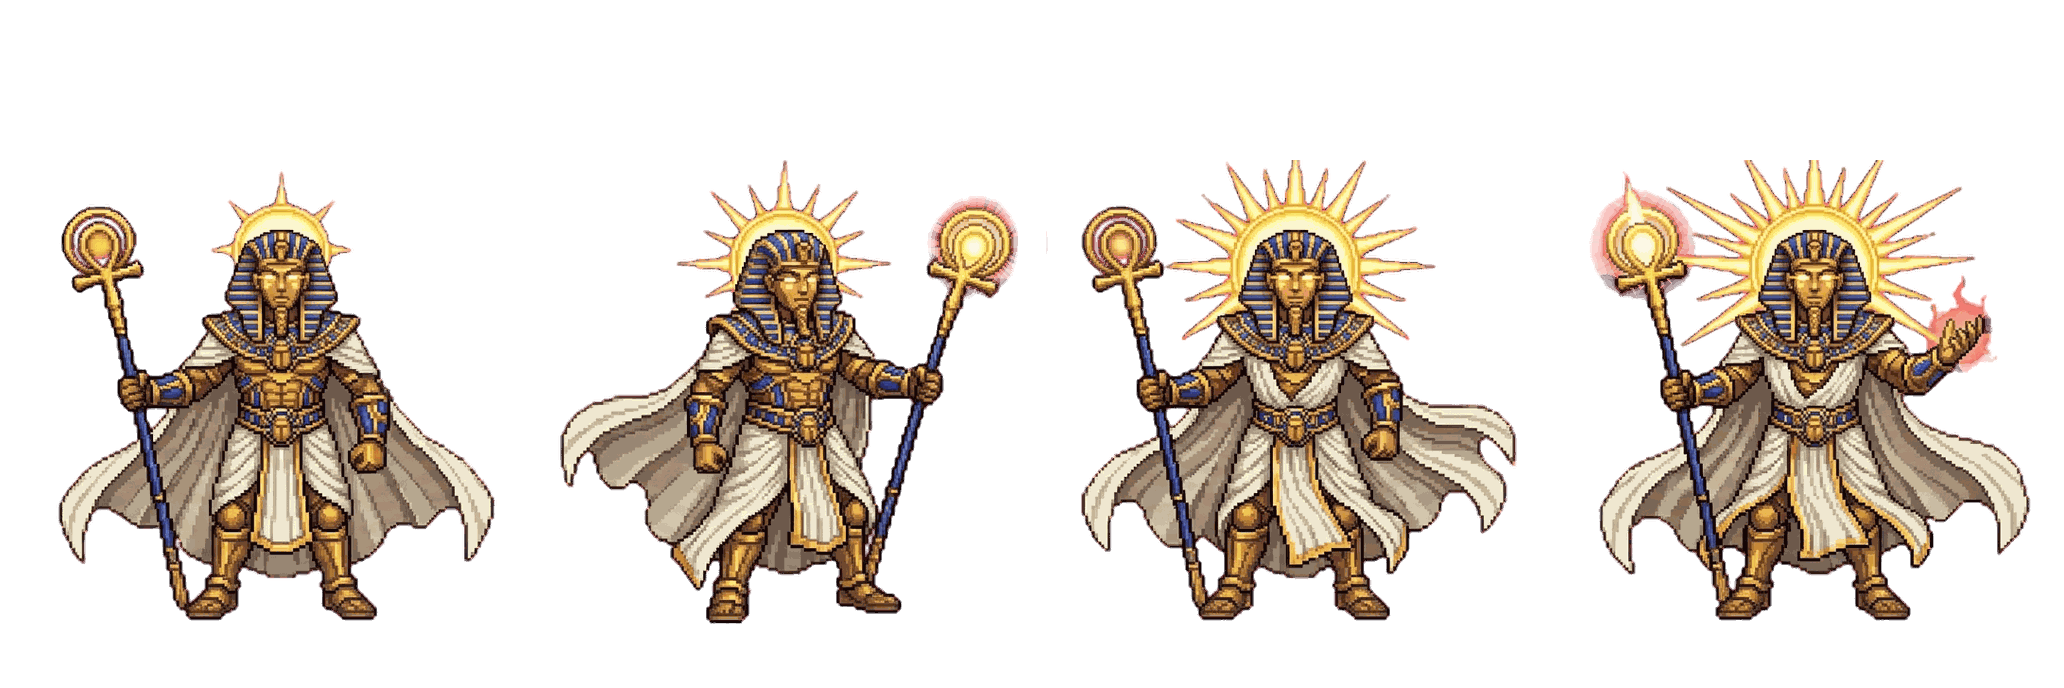
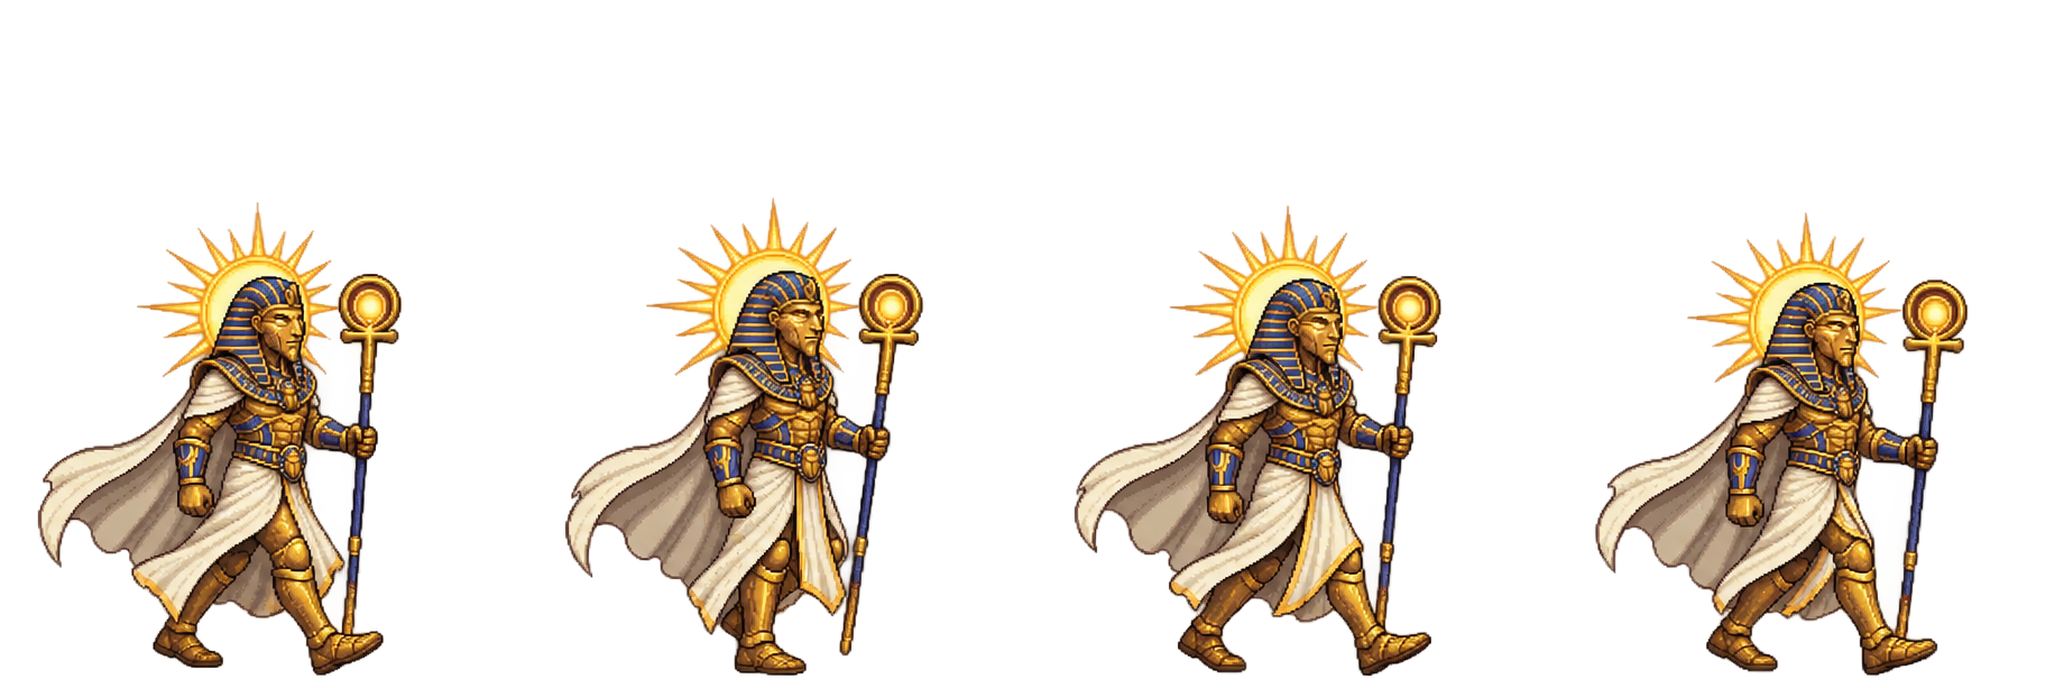
Round 280: Pressure 10% weaker; tougher Lunar Enforcer; the Sun Pharaoh walks (#60)
* Round 280 (in progress): Pressure 10% weaker

Claude-Session: https://claude.ai/code/session_01XB2RMCaJ1aVVtBjSNk3FhS

* Round 280: the Sun Pharaoh walks

Claude-Session: https://claude.ai/code/session_01XB2RMCaJ1aVVtBjSNk3FhS

* Round 280: tougher Lunar Enforcer; lab table

Claude-Session: https://claude.ai/code/session_01XB2RMCaJ1aVVtBjSNk3FhS

* Round 280: comment

Claude-Session: https://claude.ai/code/session_01XB2RMCaJ1aVVtBjSNk3FhS

---------

diff --git a/assets/pressure.js b/assets/pressure.js
@@ -9,8 +9,10 @@
 // defend or press. Tuned with the Difficulty lab (assets/sim/lab.js).
 // =====================================================================
 // Damage per point taken off, by world: late decks deal far more per energy, so pressing costs more there.
-const PRESSURE_PER_BY_WORLD = { city: 2, elaris: 2, sky: 3, wilds: 4, vespera: 6, chronospire: 6 }, PRESSURE_CAP = 0.5;
-function pressurePer() { return PRESSURE_PER_BY_WORLD[typeof activeRegion === 'string' ? activeRegion : 'city'] || 3; }
+// Round 280 (owner: "reduce pressure by 10%"): PRESSURE_STRENGTH scales both the rate (2 damage per point becomes 2.2)
+// and the cap (half becomes 45%).
+const PRESSURE_PER_BY_WORLD = { city: 2, elaris: 2, sky: 3, wilds: 4, vespera: 6, chronospire: 6 }, PRESSURE_STRENGTH = 0.9, PRESSURE_CAP = 0.5 * PRESSURE_STRENGTH;
+function pressurePer() { return Math.round((PRESSURE_PER_BY_WORLD[typeof activeRegion === 'string' ? activeRegion : 'city'] || 3) / PRESSURE_STRENGTH * 10) / 10; }
 
 function pressureDealt(b) { return b && b.pressureTurn === b.turn ? b.pressureDmg || 0 : 0; }
 function pressureGuarded(b) { return !!b && b.guardTurn === b.turn; }
@@ -55,7 +57,7 @@ intentBubble = function (plan, cls, label, frozen) {
   if (cls !== 'now' || frozen || !b || !(plan.damage > 0)) return html;
   const line = plan.pressure ? '⚔ Pressure: −' + plan.pressure + (plan.hits > 1 ? ' per hit' : '') + ' (you dealt ' + pressureDealt(b) + ' this turn)'
     : pressureGuarded(b) ? '⚔ No Pressure: you gained Block this turn'
-    : '⚔ Pressure: every ' + pressurePer() + ' damage you deal this turn takes 1 off, up to half (not if you gain Block)';
+    : '⚔ Pressure: every ' + pressurePer() + ' damage you deal this turn takes 1 off, up to ' + Math.round(PRESSURE_CAP * 100) + '% (not if you gain Block)';
   return html.replace(/<\/div>$/, '<p class="affliction pressure-line' + (plan.pressure ? ' on' : '') + '">' + line + '</p></div>');
 };
 if (typeof document !== 'undefined' && document.createElement && document.head) {

diff --git a/index.html b/index.html
@@ -552,10 +552,10 @@ if(localStorage.getItem(SAVE_KEY))$('resumeBtn').classList.remove('hidden');
 addEventListener('resize',()=>{fitWorld();fitMap();renderTalentConnectors()});fitWorld();
 requestAnimationFrame(loop);
 </script>
-<script src="assets/elaris-wildlife.js?v=round274"></script>
+<script src="assets/elaris-wildlife.js?v=round280"></script>
 <script src="assets/solaris-data.js?v=round232"></script>
-<script src="assets/expansion.js?v=round278"></script>
-<script src="assets/encounter-depth.js?v=round246"></script>
+<script src="assets/expansion.js?v=round280"></script>
+<script src="assets/encounter-depth.js?v=round280"></script>
 <script src="assets/talent-matrix.js?v=round260"></script>
 <script src="assets/aether-deck.js?v=round233"></script>
 <script src="assets/card-variety.js?v=round233"></script>
@@ -581,7 +581,7 @@ requestAnimationFrame(loop);
 <script src="assets/stagger.js?v=round189"></script>
 <script src="assets/card-mechanics.js?v=round207"></script>
 <script src="assets/chain.js?v=round261"></script>
-<script src="assets/pressure.js?v=round226"></script>
+<script src="assets/pressure.js?v=round280"></script>
 <script src="assets/pickups.js?v=round185"></script>
 <script src="assets/cardsmith.js?v=round213"></script>
 <script src="assets/gear.js?v=round199"></script>
@@ -606,7 +606,7 @@ requestAnimationFrame(loop);
 <script src="assets/enemy-traits.js?v=round265"></script>
 <script src="assets/enemy-temper.js?v=round253b"></script>
 <script src="assets/battle-recap.js?v=round228"></script>
-<script src="assets/tutorial.js?v=round279"></script>
+<script src="assets/tutorial.js?v=round280"></script>
 <script src="assets/battle-chips.js?v=round254"></script>
 <script src="assets/god-mode.js?v=round198"></script>
 </body></html>

diff --git a/assets/tutorial.js b/assets/tutorial.js
@@ -24,7 +24,7 @@ function tutorialPages() {
       + '<li>Some moves carry an <b>affliction</b> (a debuff on you or a buff on the enemy), shown a turn ahead so you can prepare.</li></ul>' },
     { title: 'Defend or press', body: '<p>Enemy hits are big, so every turn ask: defend, or press?</p>'
       + '<ul><li><b>◈ Block</b> soaks up the enemy\'s attack this turn, then it is gone.</li>'
-      + '<li><b>⚔ Pressure</b>: on a turn where you gain <b>no</b> Block, every ' + per + ' damage you deal takes 1 off the enemy\'s attack that turn, up to half. The enemy\'s move shows the lower number as you play.</li>'
+      + '<li><b>⚔ Pressure</b>: on a turn where you gain <b>no</b> Block, every ' + per + ' damage you deal takes 1 off the enemy\'s attack that turn, up to ' + Math.round(PRESSURE_CAP * 100) + '%. The enemy\'s move shows the lower number as you play.</li>'
       + '<li><b>Healing</b> cards (Bloom of Life, Nano Mend) restore HP, and HP carries over between fights.</li></ul>' },
     { title: 'Aether and the side deck', body: '<ul><li>Energy you don\'t spend becomes <b>✦ Aether</b> at the end of your turn. You can also <b>pitch</b> a card from your hand: it burns away for the rest of the fight and gives its cost + 1 Aether.</li>'
       + '<li>Aether pays for your <b>side deck</b>: answers to afflictions such as Purifying Light (cleanses debuffs), Aegis Ward (shields a big hit) and Dispel Lance (breaks enemy buffs).</li></ul>' },

diff --git a/assets/encounter-depth.js b/assets/encounter-depth.js
@@ -8,7 +8,7 @@ rules=function(c){return depthRules(c)+(stat(c).shock?' Disrupt: halve the next 
 const depthMonsterArt=monsterArt;
 // forestTyrant is the old Bloom Tyrant sheet as an art-only key (Vespera and Chronospire bosses
 // borrow it); the Sun Pharaoh has its own sheet since Round 195.
-monsterArt=function(id){return id==='bloomTyrant'||id==='forestTyrant'?'<span class="monster-sprite wildlife-sprite bloom-tyrant" role="img" aria-label="'+(id==='bloomTyrant'?enemies.bloomTyrant.name:'The Bloom Tyrant')+'" style="background-image:url(assets/monsters/elaris/'+(id==='bloomTyrant'?'sun-pharaoh':'bloom-tyrant')+'.png?v='+SPRITE_VERSION+');--wildlife-cycle:1.8s"></span>':depthMonsterArt(id)};
+monsterArt=function(id){return id==='bloomTyrant'||id==='forestTyrant'?'<span class="monster-sprite wildlife-sprite bloom-tyrant" role="img" aria-label="'+(id==='bloomTyrant'?enemies.bloomTyrant.name:'The Bloom Tyrant')+'" style="background-image:url(assets/monsters/elaris/'+(id==='bloomTyrant'?'sun-pharaoh':'bloom-tyrant')+'.png?v='+SPRITE_VERSION+');--wildlife-cycle:'+(id==='bloomTyrant'?'.8s':'1.8s')+'"></span>'/* Round 280: the Sun Pharaoh walks at the owner's 0.8s */:depthMonsterArt(id)};
 // Round 22 gave every boss an element (for the telegraphed elemental
 // strike + status effect), but all 4 mini-bosses still shared the exact
 // same 4-turn attack/charge/elemental/guard template, differing only in

diff --git a/assets/elaris-wildlife.js b/assets/elaris-wildlife.js
@@ -45,7 +45,7 @@ const cityMonsterArt=monsterArt;
 // Round 196: a sheet name with a folder ('sky/zenith-roc') is read from assets/monsters/<folder>/;
 // big:true draws it in the larger boss box.
 // Round 200: bump SPRITE_VERSION when sheets are re-cut, so browsers fetch the new images.
-const SPRITE_VERSION='274';
+const SPRITE_VERSION='280';
 function wildlifeSheetUrl(sheet){return 'assets/monsters/'+(sheet.includes('/')?sheet:'elaris/'+sheet)+'.png?v='+SPRITE_VERSION}
 monsterArt=function(id){const animal=ELARIS_WILDLIFE[id]||WILDLIFE_ART[id];if(!animal)return cityMonsterArt(id);return '<span class="monster-sprite wildlife-sprite'+(animal.big?' bloom-tyrant':'')+'" role="img" aria-label="'+animal.name+'" style="background-image:url('+wildlifeSheetUrl(animal.sheet)+');--wildlife-cycle:'+animal.cycle+'"></span>'};
 // Round 249: a boss node's sprite box was square (142px, sized for Neon Aftermath's boss pictures), which

diff --git a/assets/expansion.js b/assets/expansion.js
@@ -50,7 +50,7 @@ const BALANCE={
  perEnemy:{
   // Round 183: re-tuned with gear worn (assets/sim/lab.js); Neon Aftermath's three bosses at about 40% (owner request). Round 185: Crown Sentinel, Noon Toller and Resonant Phantom re-tuned for their mechanic afflictions.
   // Round 253: every boss re-tuned to about 40 percent for the average build with full decks.
-  moonKnight:{hp:0.43},crownSentinel:{hp:1.04},thornWarden:{hp:0.622},
+  moonKnight:{hp:0.5},/* Round 280: 0.43 → 0.5 (owner: "far too easy"; lab 59% → 39%) */crownSentinel:{hp:1.04},thornWarden:{hp:0.622},
   tidewardenElaris:{hp:0.957,attack:7},galeSovereign:{hp:0.65},bloomTyrant:{hp:0.447},/* Round 250: Noon Toller and Sun Pharaoh to about 30% (owner) */
   arcSentinel:{hp:1.59},resonantPhantom:{hp:2.69},stormTyrant:{hp:0.759},
   // Round 51: the Drowned Heron (water, Siphon) was the worst early Elaris fight.

diff --git a/CHANGES.md b/CHANGES.md
@@ -3496,6 +3496,36 @@ Playtest of Neon Aftermath's three relics (Moon Lens 5,4; Ember Sigil 5,7; Briar
 - Talent descriptions list the per-rank values. Tests updated: round76, chronospire,
   talent-matrix, card-variety, plating-armor.
 
+## Round 280: Pressure 10% weaker; a tougher Lunar Enforcer; the Sun Pharaoh walks
+
+- The owner asked to reduce Pressure by 10%. `PRESSURE_STRENGTH = 0.9` in `assets/pressure.js` scales both parts
+  of it.
+  - **Rate:** each point taken off the enemy's attack costs 10% more damage. Per world: Neon Aftermath and Solaris
+    2 → 2.2, Sky Isles 3 → 3.3, Elaris 4 → 4.4, Vespera and Chronospire 6 → 6.7.
+  - **Cap:** at most 45% of the hit comes off (was half).
+- The battle bubble and the tutorial give the new numbers. `pressure` test updated.
+- **The Sun Pharaoh walks.** The owner sent an eight-frame walk for Solaris's final boss (`bloomTyrant`). The source
+  strip is `assets/monsters/elaris/src/sun-pharaoh-walk8.png`.
+  - The frames are anchored on the upper body with one foot baseline, so frames 1, 3, 5 and 7 are cut with one
+    shared window, as for the Noon Toller. The result replaces `assets/monsters/elaris/sun-pharaoh.png`.
+  - It walks at the owner's 0.8s; Elaris's Bloom Tyrant, drawn by the same line, keeps 1.8s.
+  - `SPRITE_VERSION` 280. New `tests/sun-pharaoh.test.cjs`.
+- Difficulty lab after the change, all builds averaged (win %, smart / naive). Before is Round 265's table.
+
+  | World | Regular, before | Regular, after | Bosses, before | Bosses, after |
+  |---|---|---|---|---|
+  | Neon Aftermath | 69 / 31 | 67 / 27 | 38 / 7 | 37 / 6 |
+  | Solaris | 76 / 28 | 63 / 29 | 42 / 9 | 42 / 8 |
+  | Sky Isles | 67 / 27 | 76 / 16 | 39 / 3 | 38 / 2 |
+  | Elaris | 62 / 14 | 57 / 16 | 42 / 1 | 42 / 1 |
+  | Vespera | 82 / 14 | 81 / 17 | 38 / 0 | 36 / 0 |
+  | Chronospire | 72 / 1 | 64 / 1 | 40 / 0 | 38 / 0 |
+
+  Bosses moved by 0-2 points. Regular fights move about ±8 between runs, so Solaris's 63 is within the noise.
+- **Lunar Enforcer** (owner: "far too easy"). With traits and the weaker Pressure, the lab (`t2`, typical of 16
+  builds × 2 policies) had it at 59%, against 22% for the Crown Sentinel and 29% for the Thorn Warden.
+  - `BALANCE.perEnemy.moonKnight.hp` 0.43 → 0.5 puts it at 39%. Measured: 0.48 → 44%, 0.55 → 21%, 0.65 → 13%.
+
 ## Round 279: playtest fixes
 
 The owner asked for a playtest. A new journey was played in Chromium the way a player would: the tutorial and

diff --git a/CLAUDE.md b/CLAUDE.md
@@ -4,7 +4,7 @@ Aethercede is a browser card-battler/exploration game in vanilla JS with no
 build step. Open `index.html` directly. `compendium.html` is the card
 gallery; `arena.html` is a standalone prototype and is left untouched.
 
-**Read `CHANGES.md` first.** Every round of work (Round 1 to Round 279) is
+**Read `CHANGES.md` first.** Every round of work (Round 1 to Round 280) is
 logged there with its reasoning. Add a new `## Round N:` entry for each
 change set.
 
@@ -96,8 +96,8 @@ change set.
   each card's description (Round 238),
   and an affliction that works against it.
 - **⚔ Pressure** (Round 226, `assets/pressure.js`): on a turn where you gain no Block from a card, every
-  `pressurePer()` damage you deal (2 in the first two worlds, rising to 6 late) takes 1 off the enemy's
-  attack that turn, up to half. It makes decks without Block viable; boss HP was re-tuned for it.
+  `pressurePer()` damage you deal (2.2 in the first two worlds, rising to 6.7 late) takes 1 off the enemy's
+  attack that turn, up to 45% (Round 280 made it 10% weaker: `PRESSURE_STRENGTH`). It makes decks without Block viable; boss HP was re-tuned for it.
 - **Concept-lab card mechanics** (Round 206, `assets/card-mechanics.js`): ⤳ Follow-through, ⚡ Amplify and
   ◇ Choose one, via a `stat` wrapper reading `b.chain`, `b.amplifyUid` and `b.modePick`.
 - **Creature sprite sheets** (4 frames, one row; magenta or, since Round 222, green background): cut generated art with `tools/cut_sprite_sheet.py`,
